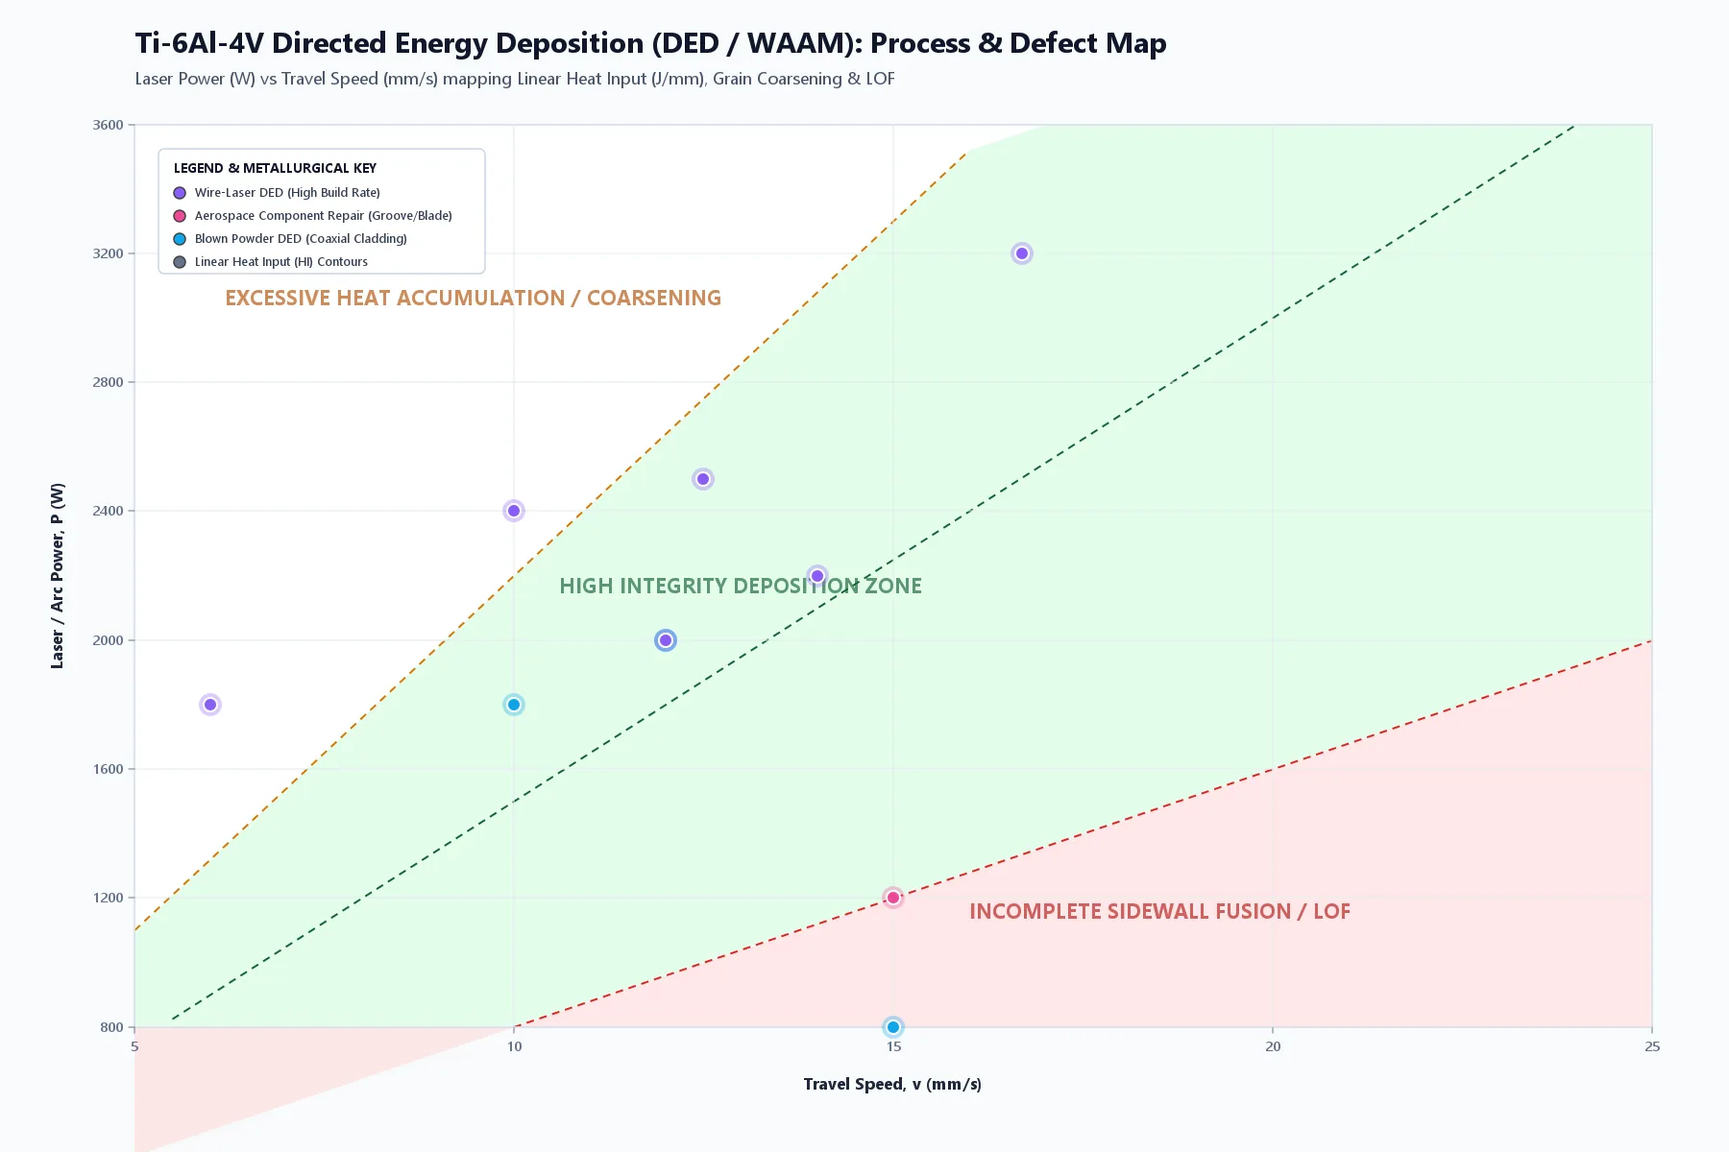
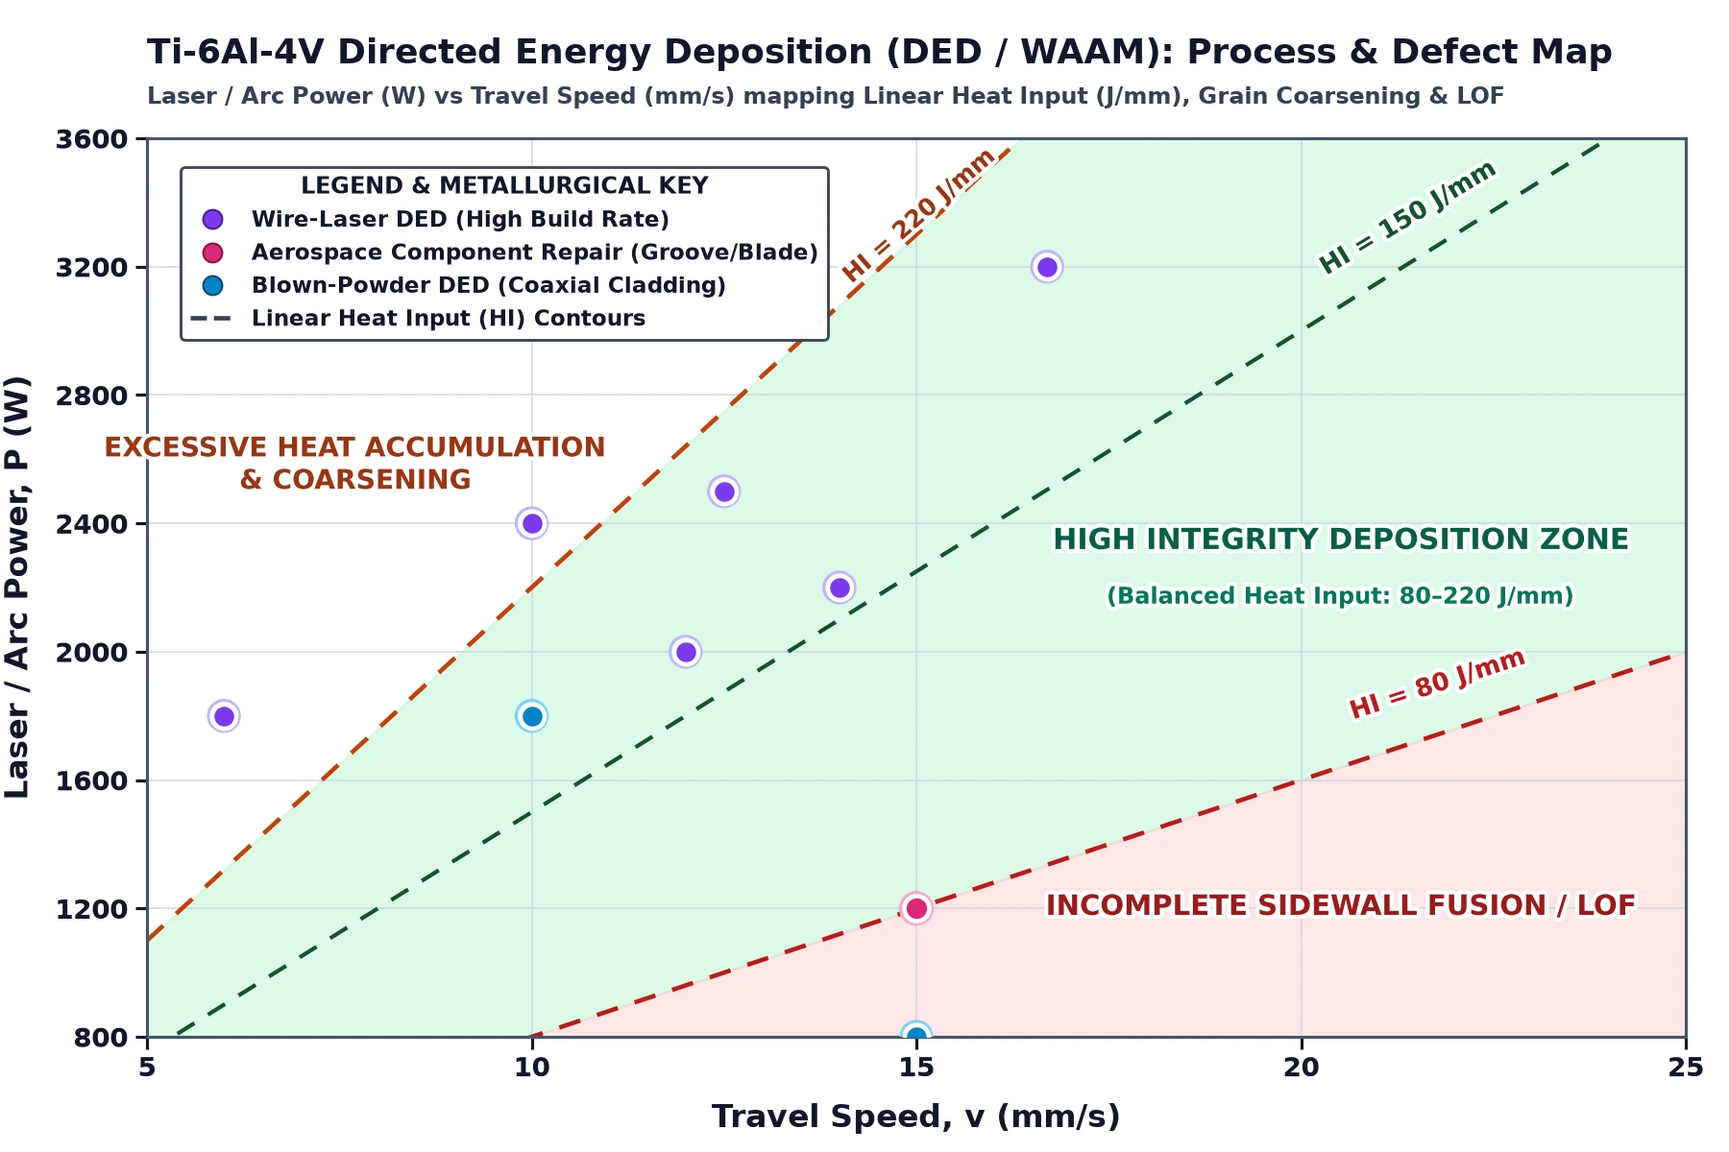
style(process-map): regenerate bold high-contrast process maps and Bontha SVG typography

diff --git a/process_windows_dashboard.html b/process_windows_dashboard.html
@@ -10163,64 +10163,64 @@ window.addEventListener('click', function(e) {
             <polygon points="343,300 700,232 700,300" fill="url(#gradEquiaxed)" stroke="none"/>
 
             <!-- Cooling Rate Iso-contours (Tdot = G * R) -->
-            <line x1="80" y1="196" x2="545" y2="300" stroke="#334155" stroke-dasharray="4,4" stroke-width="1.2"/>
-            <text x="500" y="295" fill="#64748b" font-size="10" font-family="monospace">Ṫ = 10³ K/s</text>
+            <line x1="80" y1="196" x2="545" y2="300" stroke="#475569" stroke-dasharray="4,4" stroke-width="1.3"/>
+            <text x="492" y="294" fill="#e2e8f0" font-size="11.5" font-weight="800" font-family="monospace">Ṫ = 10³ K/s</text>
 
-            <line x1="80" y1="144" x2="700" y2="274" stroke="#334155" stroke-dasharray="4,4" stroke-width="1.2"/>
-            <text x="630" y="268" fill="#64748b" font-size="10" font-family="monospace">Ṫ = 10⁴ K/s</text>
+            <line x1="80" y1="144" x2="700" y2="274" stroke="#475569" stroke-dasharray="4,4" stroke-width="1.3"/>
+            <text x="615" y="266" fill="#e2e8f0" font-size="11.5" font-weight="800" font-family="monospace">Ṫ = 10⁴ K/s</text>
 
-            <line x1="80" y1="92" x2="700" y2="222" stroke="#475569" stroke-dasharray="4,4" stroke-width="1.2"/>
-            <text x="630" y="216" fill="#94a3b8" font-size="10" font-family="monospace">Ṫ = 10⁵ K/s</text>
+            <line x1="80" y1="92" x2="700" y2="222" stroke="#64748b" stroke-dasharray="4,4" stroke-width="1.3"/>
+            <text x="615" y="214" fill="#f1f5f9" font-size="11.5" font-weight="800" font-family="monospace">Ṫ = 10⁵ K/s</text>
 
-            <line x1="80" y1="40" x2="700" y2="170" stroke="#475569" stroke-dasharray="4,4" stroke-width="1.2"/>
-            <text x="630" y="164" fill="#94a3b8" font-size="10" font-family="monospace">Ṫ = 10⁶ K/s</text>
+            <line x1="80" y1="40" x2="700" y2="170" stroke="#64748b" stroke-dasharray="4,4" stroke-width="1.3"/>
+            <text x="615" y="162" fill="#f1f5f9" font-size="11.5" font-weight="800" font-family="monospace">Ṫ = 10⁶ K/s</text>
 
             <!-- Regime Boundary Lines -->
-            <line x1="80" y1="248" x2="700" y2="196" stroke="#0ea5e9" stroke-dasharray="6,4" stroke-width="1.8"/>
-            <text x="120" y="235" fill="#38bdf8" font-size="11" font-weight="600" transform="rotate(-4.8, 120, 235)">G/R = 10³ (CET Boundary)</text>
+            <line x1="80" y1="248" x2="700" y2="196" stroke="#38bdf8" stroke-dasharray="6,4" stroke-width="2.0"/>
+            <text x="115" y="234" fill="#7dd3fc" font-size="12" font-weight="800" transform="rotate(-4.8, 115, 234)">G/R = 10³ (CET Boundary)</text>
 
-            <line x1="80" y1="284" x2="700" y2="232" stroke="#f59e0b" stroke-dasharray="6,4" stroke-width="1.5"/>
-            <text x="240" y="280" fill="#fbbf24" font-size="10" transform="rotate(-4.8, 240, 280)">G/R = 2×10² (Equiaxed Limit)</text>
+            <line x1="80" y1="284" x2="700" y2="232" stroke="#fbbf24" stroke-dasharray="6,4" stroke-width="1.8"/>
+            <text x="230" y="279" fill="#fde047" font-size="11.5" font-weight="800" transform="rotate(-4.8, 230, 279)">G/R = 2×10² (Equiaxed Limit)</text>
 
             <!-- Text annotations inside regimes -->
-            <text x="160" y="100" fill="#60a5fa" font-size="13" font-weight="700" letter-spacing="1">FULLY COLUMNAR GRAINS (Epitaxial prior-β)</text>
-            <text x="160" y="118" fill="#93c5fd" font-size="10.5">Typical LPBF & Bulky L-DED Core • Rapid directional heat extraction</text>
-            <text x="490" y="228" fill="#fbbf24" font-size="11" font-weight="700">MIXED (CET Zone)</text>
-            <text x="560" y="285" fill="#34d399" font-size="11" font-weight="700">FULLY EQUIAXED</text>
+            <text x="155" y="98" fill="#93c5fd" font-size="14" font-weight="800" letter-spacing="0.8">FULLY COLUMNAR GRAINS (Epitaxial prior-β)</text>
+            <text x="155" y="117" fill="#dbeafe" font-size="11.5" font-weight="700">Typical LPBF &amp; Bulky L-DED Core • Rapid directional heat extraction</text>
+            <text x="480" y="227" fill="#fde047" font-size="12" font-weight="800">MIXED (CET Zone)</text>
+            <text x="548" y="285" fill="#6ee7b7" font-size="12" font-weight="800">FULLY EQUIAXED</text>
 
             <!-- Axes -->
-            <line x1="80" y1="40" x2="80" y2="300" stroke="#475569" stroke-width="1.5"/>
-            <line x1="80" y1="300" x2="700" y2="300" stroke="#475569" stroke-width="1.5"/>
+            <line x1="80" y1="40" x2="80" y2="300" stroke="#64748b" stroke-width="1.8"/>
+            <line x1="80" y1="300" x2="700" y2="300" stroke="#64748b" stroke-width="1.8"/>
 
             <!-- Y-axis ticks & labels (10^2 to 10^7) -->
-            <line x1="75" y1="300" x2="80" y2="300" stroke="#64748b"/>
-            <text x="70" y="304" fill="#94a3b8" font-size="10" text-anchor="end" font-family="monospace">10²</text>
-            <line x1="75" y1="248" x2="80" y2="248" stroke="#64748b"/>
-            <text x="70" y="252" fill="#94a3b8" font-size="10" text-anchor="end" font-family="monospace">10³</text>
-            <line x1="75" y1="196" x2="80" y2="196" stroke="#64748b"/>
-            <text x="70" y="200" fill="#94a3b8" font-size="10" text-anchor="end" font-family="monospace">10⁴</text>
-            <line x1="75" y1="144" x2="80" y2="144" stroke="#64748b"/>
-            <text x="70" y="148" fill="#94a3b8" font-size="10" text-anchor="end" font-family="monospace">10⁵</text>
-            <line x1="75" y1="92" x2="80" y2="92" stroke="#64748b"/>
-            <text x="70" y="96" fill="#94a3b8" font-size="10" text-anchor="end" font-family="monospace">10⁶</text>
-            <line x1="75" y1="40" x2="80" y2="40" stroke="#64748b"/>
-            <text x="70" y="44" fill="#94a3b8" font-size="10" text-anchor="end" font-family="monospace">10⁷</text>
+            <line x1="75" y1="300" x2="80" y2="300" stroke="#94a3b8"/>
+            <text x="70" y="304" fill="#f1f5f9" font-size="11.5" font-weight="800" text-anchor="end" font-family="monospace">10²</text>
+            <line x1="75" y1="248" x2="80" y2="248" stroke="#94a3b8"/>
+            <text x="70" y="252" fill="#f1f5f9" font-size="11.5" font-weight="800" text-anchor="end" font-family="monospace">10³</text>
+            <line x1="75" y1="196" x2="80" y2="196" stroke="#94a3b8"/>
+            <text x="70" y="200" fill="#f1f5f9" font-size="11.5" font-weight="800" text-anchor="end" font-family="monospace">10⁴</text>
+            <line x1="75" y1="144" x2="80" y2="144" stroke="#94a3b8"/>
+            <text x="70" y="148" fill="#f1f5f9" font-size="11.5" font-weight="800" text-anchor="end" font-family="monospace">10⁵</text>
+            <line x1="75" y1="92" x2="80" y2="92" stroke="#94a3b8"/>
+            <text x="70" y="96" fill="#f1f5f9" font-size="11.5" font-weight="800" text-anchor="end" font-family="monospace">10⁶</text>
+            <line x1="75" y1="40" x2="80" y2="40" stroke="#94a3b8"/>
+            <text x="70" y="44" fill="#f1f5f9" font-size="11.5" font-weight="800" text-anchor="end" font-family="monospace">10⁷</text>
 
             <!-- X-axis ticks & labels (10^-3 to 10^1) -->
-            <line x1="80" y1="300" x2="80" y2="305" stroke="#64748b"/>
-            <text x="80" y="320" fill="#94a3b8" font-size="10" text-anchor="middle" font-family="monospace">10⁻³</text>
-            <line x1="235" y1="300" x2="235" y2="305" stroke="#64748b"/>
-            <text x="235" y="320" fill="#94a3b8" font-size="10" text-anchor="middle" font-family="monospace">10⁻²</text>
-            <line x1="390" y1="300" x2="390" y2="305" stroke="#64748b"/>
-            <text x="390" y="320" fill="#94a3b8" font-size="10" text-anchor="middle" font-family="monospace">10⁻¹</text>
-            <line x1="545" y1="300" x2="545" y2="305" stroke="#64748b"/>
-            <text x="545" y="320" fill="#94a3b8" font-size="10" text-anchor="middle" font-family="monospace">1.0</text>
-            <line x1="700" y1="300" x2="700" y2="305" stroke="#64748b"/>
-            <text x="700" y="320" fill="#94a3b8" font-size="10" text-anchor="middle" font-family="monospace">10</text>
+            <line x1="80" y1="300" x2="80" y2="305" stroke="#94a3b8"/>
+            <text x="80" y="321" fill="#f1f5f9" font-size="11.5" font-weight="800" text-anchor="middle" font-family="monospace">10⁻³</text>
+            <line x1="235" y1="300" x2="235" y2="305" stroke="#94a3b8"/>
+            <text x="235" y="321" fill="#f1f5f9" font-size="11.5" font-weight="800" text-anchor="middle" font-family="monospace">10⁻²</text>
+            <line x1="390" y1="300" x2="390" y2="305" stroke="#94a3b8"/>
+            <text x="390" y="321" fill="#f1f5f9" font-size="11.5" font-weight="800" text-anchor="middle" font-family="monospace">10⁻¹</text>
+            <line x1="545" y1="300" x2="545" y2="305" stroke="#94a3b8"/>
+            <text x="545" y="321" fill="#f1f5f9" font-size="11.5" font-weight="800" text-anchor="middle" font-family="monospace">1.0</text>
+            <line x1="700" y1="300" x2="700" y2="305" stroke="#94a3b8"/>
+            <text x="700" y="321" fill="#f1f5f9" font-size="11.5" font-weight="800" text-anchor="middle" font-family="monospace">10</text>
 
             <!-- Axis Titles -->
-            <text x="390" y="345" fill="#e2e8f0" font-size="11.5" font-weight="600" text-anchor="middle">Solidification Rate R (cm/s) [Solidus Interface Velocity]</text>
-            <text x="25" y="170" fill="#e2e8f0" font-size="11.5" font-weight="600" text-anchor="middle" transform="rotate(-90, 25, 170)">Thermal Gradient G (K/cm)</text>
+            <text x="390" y="347" fill="#ffffff" font-size="13" font-weight="800" text-anchor="middle">Solidification Rate R (cm/s) [Solidus Interface Velocity]</text>
+            <text x="24" y="170" fill="#ffffff" font-size="13" font-weight="800" text-anchor="middle" transform="rotate(-90, 24, 170)">Thermal Gradient G (K/cm)</text>
 
             <!-- Active Real-Time Operating Point Cursor -->
             <g id="bonthaCursorGroup">

diff --git a/scripts/generate_process_maps.py b/scripts/generate_process_maps.py
@@ -1,0 +1,210 @@
+#!/usr/bin/env python3
+"""
+Generates bold, high-contrast 1800x1200 (12x8 in @ 150 DPI) operational process
+window figures for LPBF and DED/WAAM in both PNG and WebP formats.
+"""
+from pathlib import Path
+import matplotlib
+matplotlib.use('Agg')
+import matplotlib.pyplot as plt
+import matplotlib.patheffects as pe
+from matplotlib.lines import Line2D
+import numpy as np
+from PIL import Image
+
+
+PLOTS_DIR = Path(__file__).resolve().parent.parent / 'plots'
+HALO = [pe.withStroke(linewidth=4.0, foreground='#ffffff', alpha=0.96)]
+
+
+def _save_png_and_webp(fig: plt.Figure, stem: str) -> None:
+    PLOTS_DIR.mkdir(parents=True, exist_ok=True)
+    png_path = PLOTS_DIR / f'{stem}.png'
+    webp_path = PLOTS_DIR / f'{stem}.webp'
+    fig.savefig(png_path, dpi=150, facecolor=fig.get_facecolor())
+    plt.close(fig)
+    with Image.open(png_path) as im:
+        im.convert('RGB').save(webp_path, 'WEBP', quality=92, method=6)
+    print(f'Generated {png_path.name} and {webp_path.name}')
+
+
+def _style_axis(ax: plt.Axes, xlabel: str, ylabel: str) -> None:
+    ax.set_facecolor('#ffffff')
+    ax.grid(True, which='major', color='#cbd5e1', linestyle='-', linewidth=0.9, alpha=0.75, zorder=0)
+    for spine in ax.spines.values():
+        spine.set_color('#475569')
+        spine.set_linewidth(1.5)
+    ax.tick_params(axis='both', which='major', labelsize=13.5, colors='#0f172a', width=1.5, length=6)
+    for tick in ax.get_xticklabels() + ax.get_yticklabels():
+        tick.set_fontweight('bold')
+    ax.set_xlabel(xlabel, fontsize=16, fontweight='bold', color='#0f172a', labelpad=10)
+    ax.set_ylabel(ylabel, fontsize=16, fontweight='bold', color='#0f172a', labelpad=10)
+
+
+def generate_lpbf_map() -> None:
+    fig, ax = plt.subplots(figsize=(12, 8), dpi=150)
+    fig.patch.set_facecolor('#ffffff')
+
+    v_grid = np.linspace(400, 1800, 400)
+    p_kh = 0.255 * v_grid      # Ev = 85 J/mm^3 (h = 100 um, t = 30 um -> 0.003 mm^2)
+    p_mid = 0.210 * v_grid     # Ev = 70 J/mm^3
+    p_lof = 0.165 * v_grid     # Ev = 55 J/mm^3
+
+    # Shaded process zones
+    v_cond = v_grid[v_grid <= 1500]
+    ax.fill_between(v_cond, 0.165 * v_cond, 0.255 * v_cond, color='#bbf7d0', alpha=0.52, zorder=1)
+    ax.fill_between(v_grid, 80, np.minimum(450, p_lof), color='#fecaca', alpha=0.45, zorder=1)
+    v_ball = v_grid[v_grid >= 1500]
+    ax.fill_between(v_ball, 80, np.minimum(0.165 * v_ball, 240), color='#fde68a', alpha=0.55, zorder=1)
+
+    # Iso-VED lines
+    ax.plot(v_grid, p_kh, color='#6d28d9', linestyle=(0, (5, 4)), linewidth=2.2, zorder=2)
+    ax.plot(v_grid, p_mid, color='#14532d', linestyle=(0, (5, 4)), linewidth=2.0, zorder=2)
+    ax.plot(v_grid, p_lof, color='#b91c1c', linestyle=(0, (5, 4)), linewidth=2.2, zorder=2)
+
+    # Contour annotations placed cleanly away from scatter dots
+    ax.text(1540, 412, 'Ev = 85 J/mm³', fontsize=12.5, fontweight='bold', color='#5b21b6',
+            rotation=28, path_effects=HALO, zorder=5)
+    ax.text(1540, 344, 'Ev = 70 J/mm³', fontsize=12.5, fontweight='bold', color='#14532d',
+            rotation=24, path_effects=HALO, zorder=5)
+    ax.text(1540, 272, 'Ev = 55 J/mm³', fontsize=12.5, fontweight='bold', color='#b91c1c',
+            rotation=19, path_effects=HALO, zorder=5)
+
+    # Experimental literature points
+    green_pts = np.array([[800, 200], [900, 200], [1100, 250], [1150, 275], [1200, 280]])
+    blue_pts = np.array([[800, 300], [900, 175], [950, 180], [1000, 250], [1050, 225], [1050, 250], [1200, 280], [1300, 300]])
+    red_pts = np.array([[1250, 280]])
+
+    ax.scatter(blue_pts[:, 0], blue_pts[:, 1], s=140, color='#2563eb', edgecolors='#ffffff', linewidths=2.2, zorder=4)
+    ax.scatter(blue_pts[:, 0], blue_pts[:, 1], s=230, facecolors='none', edgecolors='#93c5fd', linewidths=1.5, zorder=3)
+    ax.scatter(green_pts[:, 0], green_pts[:, 1], s=155, color='#047857', edgecolors='#ffffff', linewidths=2.2, zorder=4)
+    ax.scatter(green_pts[:, 0], green_pts[:, 1], s=250, facecolors='none', edgecolors='#34d399', linewidths=1.6, zorder=3)
+    ax.scatter(red_pts[:, 0], red_pts[:, 1], s=155, color='#dc2626', edgecolors='#ffffff', linewidths=2.2, zorder=4)
+    ax.scatter(red_pts[:, 0], red_pts[:, 1], s=250, facecolors='none', edgecolors='#fca5a5', linewidths=1.6, zorder=3)
+
+    # Extra-bold high-contrast regime titles (zero collisions with dots, lines, or legend)
+    ax.text(1170, 412, 'KEYHOLING REGIME', fontsize=15, fontweight='bold', color='#5b21b6',
+            ha='center', path_effects=HALO, zorder=5)
+    ax.text(1390, 263, 'OPTIMAL CONDUCTION\nZONE', fontsize=12.5, fontweight='bold', color='#065f46',
+            ha='center', va='center', path_effects=HALO, zorder=5)
+    ax.text(1390, 241, '(Rel. Density > 99.8%)', fontsize=10.5, fontweight='bold', color='#047857',
+            ha='center', path_effects=HALO, zorder=5)
+    ax.text(1655, 220, 'BALLING REGIME', fontsize=14, fontweight='bold', color='#92400e',
+            ha='center', path_effects=HALO, zorder=5)
+    ax.text(1360, 142, 'LACK OF FUSION (LOF)', fontsize=14.5, fontweight='bold', color='#991b1b',
+            ha='center', path_effects=HALO, zorder=5)
+
+    legend_handles = [
+        Line2D([0], [0], marker='o', color='w', label='ASTM F2924 Compliant / HIP / Annealed',
+               markerfacecolor='#047857', markeredgecolor='#064e3b', markersize=9.5),
+        Line2D([0], [0], marker='o', color='w', label='As-Built Conduction Melt (Standard)',
+               markerfacecolor='#2563eb', markeredgecolor='#1e3a8a', markersize=9.5),
+        Line2D([0], [0], marker='o', color='w', label='LOF / Boundary Condition Study',
+               markerfacecolor='#dc2626', markeredgecolor='#7f1d1d', markersize=9.5),
+        Line2D([0], [0], color='#334155', linestyle='--', linewidth=2.2, label='Isocline Energy Density (Ev) Contours'),
+    ]
+    leg = ax.legend(handles=legend_handles, loc='upper left', bbox_to_anchor=(0.015, 0.98),
+                    title='LEGEND & METALLURGICAL KEY', frameon=True, framealpha=0.96,
+                    edgecolor='#334155', facecolor='#ffffff', fontsize=11, title_fontsize=11.5)
+    leg.get_frame().set_linewidth(1.4)
+    leg.get_title().set_fontweight('bold')
+    leg.get_title().set_color('#0f172a')
+    for txt in leg.get_texts():
+        txt.set_fontweight('bold')
+        txt.set_color('#0f172a')
+
+    ax.set_xlim(400, 1800)
+    ax.set_ylim(100, 450)
+    ax.set_xticks(np.arange(400, 1801, 200))
+    ax.set_yticks(np.arange(100, 451, 50))
+    _style_axis(ax, 'Scan Speed, v (mm/s)', 'Laser Power, P (W)')
+
+    fig.text(0.075, 0.945, 'Ti-6Al-4V Laser Powder Bed Fusion (LPBF): Process Map & Defect Windows',
+             fontsize=17.5, fontweight='bold', color='#0f172a')
+    fig.text(0.075, 0.910, 'Laser Power (P) vs Scan Speed (v) showing Lack-of-Fusion, Keyholing, Balling & Safe Conduction Regimes (h = 100 µm, t = 30 µm)',
+             fontsize=10.3, fontweight='bold', color='#334155')
+
+    fig.subplots_adjust(left=0.075, right=0.975, top=0.88, bottom=0.10)
+    _save_png_and_webp(fig, 'ti64_lpbf_defect_processing_window')
+
+
+def generate_ded_waam_map() -> None:
+    fig, ax = plt.subplots(figsize=(12, 8), dpi=150)
+    fig.patch.set_facecolor('#ffffff')
+
+    v_grid = np.linspace(5, 25, 400)
+    p_hi220 = 220.0 * v_grid
+    p_hi150 = 150.0 * v_grid
+    p_hi80 = 80.0 * v_grid
+
+    ax.fill_between(v_grid, np.maximum(800, p_hi80), np.minimum(3600, p_hi220), color='#bbf7d0', alpha=0.52, zorder=1)
+    ax.fill_between(v_grid, 750, np.minimum(3600, p_hi80), color='#fecaca', alpha=0.45, zorder=1)
+
+    ax.plot(v_grid, p_hi220, color='#c2410c', linestyle=(0, (5, 4)), linewidth=2.2, zorder=2)
+    ax.plot(v_grid, p_hi150, color='#14532d', linestyle=(0, (5, 4)), linewidth=2.0, zorder=2)
+    ax.plot(v_grid, p_hi80, color='#b91c1c', linestyle=(0, (5, 4)), linewidth=2.2, zorder=2)
+
+    ax.text(14.0, 3150, 'HI = 220 J/mm', fontsize=12, fontweight='bold', color='#9a3412',
+            rotation=41, path_effects=HALO, zorder=5)
+    ax.text(20.2, 3175, 'HI = 150 J/mm', fontsize=12.5, fontweight='bold', color='#14532d',
+            rotation=31, path_effects=HALO, zorder=5)
+    ax.text(20.6, 1790, 'HI = 80 J/mm', fontsize=12.5, fontweight='bold', color='#b91c1c',
+            rotation=18, path_effects=HALO, zorder=5)
+
+    purple_pts = np.array([[6.0, 1800], [10.0, 2400], [12.0, 2000], [12.5, 2500], [14.0, 2200], [16.7, 3200]])
+    pink_pts = np.array([[15.0, 1200]])
+    cyan_pts = np.array([[10.0, 1800], [15.0, 800]])
+
+    ax.scatter(purple_pts[:, 0], purple_pts[:, 1], s=145, color='#7c3aed', edgecolors='#ffffff', linewidths=2.2, zorder=4)
+    ax.scatter(purple_pts[:, 0], purple_pts[:, 1], s=240, facecolors='none', edgecolors='#c4b5fd', linewidths=1.5, zorder=3)
+    ax.scatter(pink_pts[:, 0], pink_pts[:, 1], s=155, color='#db2777', edgecolors='#ffffff', linewidths=2.2, zorder=4)
+    ax.scatter(pink_pts[:, 0], pink_pts[:, 1], s=250, facecolors='none', edgecolors='#f9a8d4', linewidths=1.6, zorder=3)
+    ax.scatter(cyan_pts[:, 0], cyan_pts[:, 1], s=145, color='#0284c7', edgecolors='#ffffff', linewidths=2.2, zorder=4)
+    ax.scatter(cyan_pts[:, 0], cyan_pts[:, 1], s=240, facecolors='none', edgecolors='#7dd3fc', linewidths=1.5, zorder=3)
+
+    ax.text(7.7, 2580, 'EXCESSIVE HEAT ACCUMULATION\n& COARSENING', fontsize=13.5, fontweight='bold', color='#9a3412',
+            ha='center', va='center', path_effects=HALO, zorder=5)
+    ax.text(20.5, 2320, 'HIGH INTEGRITY DEPOSITION ZONE', fontsize=14.5, fontweight='bold', color='#065f46',
+            ha='center', path_effects=HALO, zorder=5)
+    ax.text(20.5, 2150, '(Balanced Heat Input: 80–220 J/mm)', fontsize=11.5, fontweight='bold', color='#047857',
+            ha='center', path_effects=HALO, zorder=5)
+    ax.text(20.5, 1180, 'INCOMPLETE SIDEWALL FUSION / LOF', fontsize=14, fontweight='bold', color='#991b1b',
+            ha='center', path_effects=HALO, zorder=5)
+
+    legend_handles = [
+        Line2D([0], [0], marker='o', color='w', label='Wire-Laser DED (High Build Rate)',
+               markerfacecolor='#7c3aed', markeredgecolor='#4c1d95', markersize=9.5),
+        Line2D([0], [0], marker='o', color='w', label='Aerospace Component Repair (Groove/Blade)',
+               markerfacecolor='#db2777', markeredgecolor='#831843', markersize=9.5),
+        Line2D([0], [0], marker='o', color='w', label='Blown-Powder DED (Coaxial Cladding)',
+               markerfacecolor='#0284c7', markeredgecolor='#0c4a6e', markersize=9.5),
+        Line2D([0], [0], color='#334155', linestyle='--', linewidth=2.2, label='Linear Heat Input (HI) Contours'),
+    ]
+    leg = ax.legend(handles=legend_handles, loc='upper left', bbox_to_anchor=(0.015, 0.98),
+                    title='LEGEND & METALLURGICAL KEY', frameon=True, framealpha=0.96,
+                    edgecolor='#334155', facecolor='#ffffff', fontsize=11, title_fontsize=11.5)
+    leg.get_frame().set_linewidth(1.4)
+    leg.get_title().set_fontweight('bold')
+    leg.get_title().set_color('#0f172a')
+    for txt in leg.get_texts():
+        txt.set_fontweight('bold')
+        txt.set_color('#0f172a')
+
+    ax.set_xlim(5, 25)
+    ax.set_ylim(800, 3600)
+    ax.set_xticks(np.arange(5, 26, 5))
+    ax.set_yticks(np.arange(800, 3601, 400))
+    _style_axis(ax, 'Travel Speed, v (mm/s)', 'Laser / Arc Power, P (W)')
+
+    fig.text(0.085, 0.945, 'Ti-6Al-4V Directed Energy Deposition (DED / WAAM): Process & Defect Map',
+             fontsize=17.5, fontweight='bold', color='#0f172a')
+    fig.text(0.085, 0.910, 'Laser / Arc Power (W) vs Travel Speed (mm/s) mapping Linear Heat Input (J/mm), Grain Coarsening & LOF',
+             fontsize=11.5, fontweight='bold', color='#334155')
+
+    fig.subplots_adjust(left=0.085, right=0.975, top=0.88, bottom=0.10)
+    _save_png_and_webp(fig, 'ti64_ded_waam_process_window')
+
+
+if __name__ == '__main__':
+    generate_lpbf_map()
+    generate_ded_waam_map()
